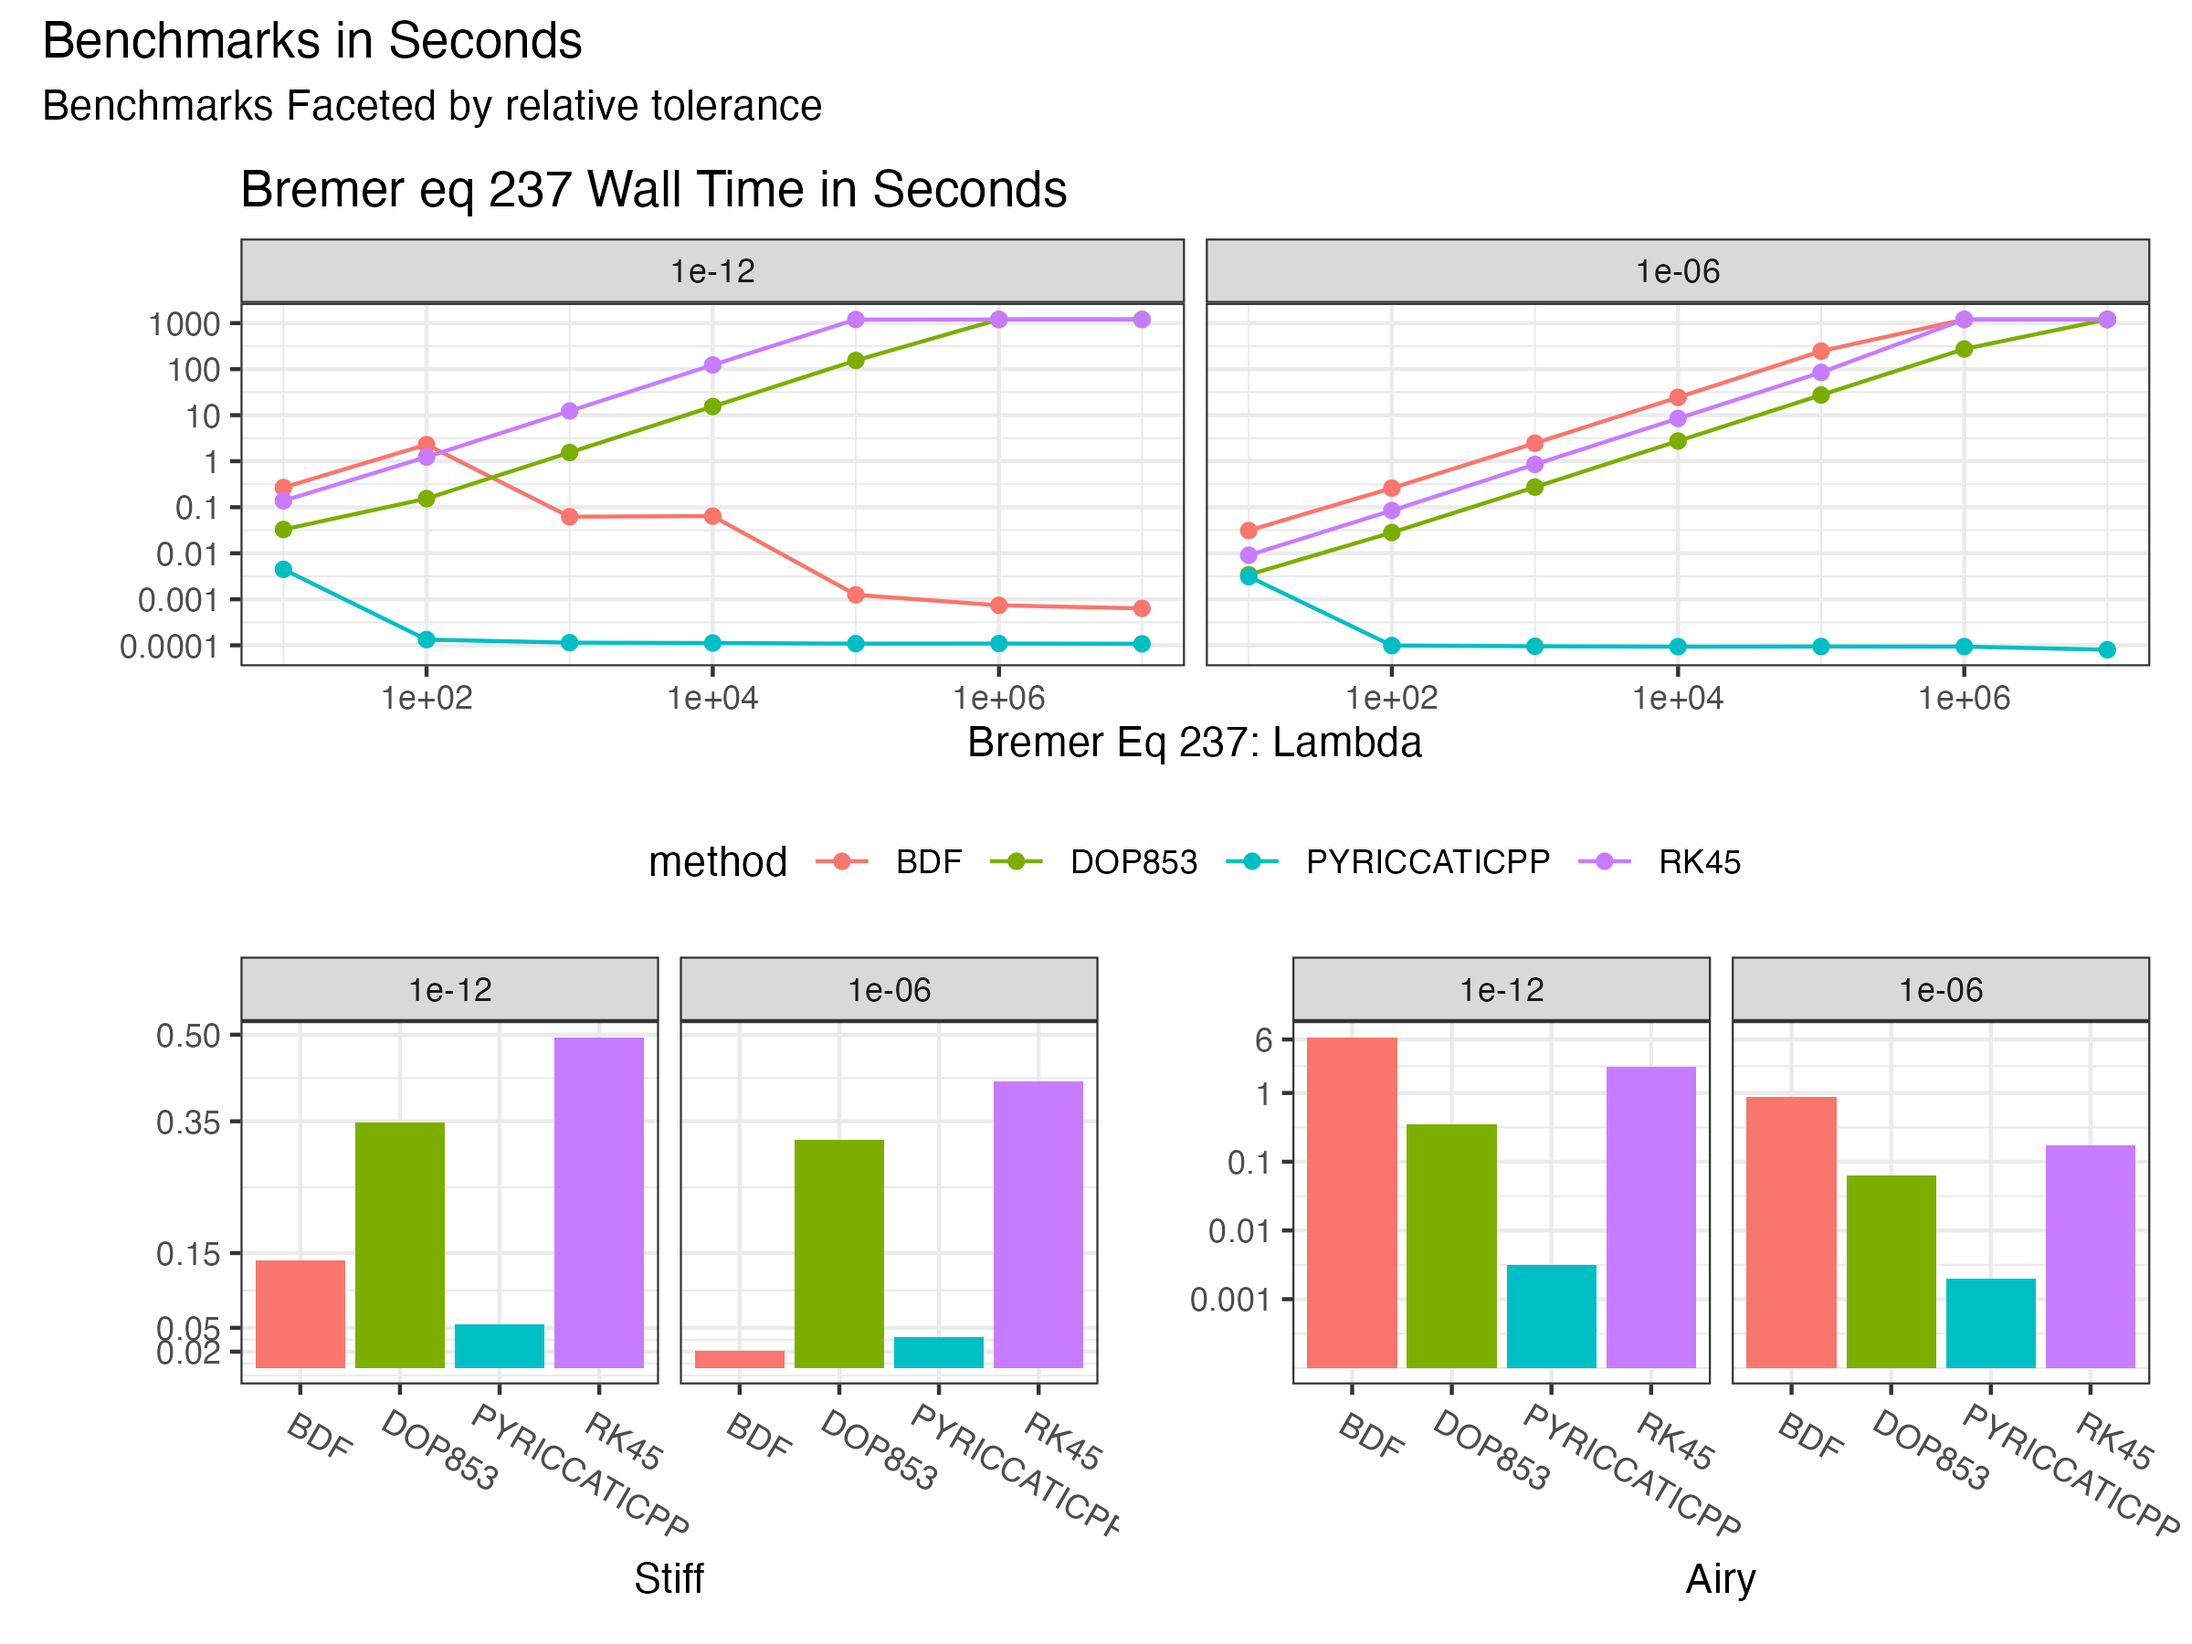
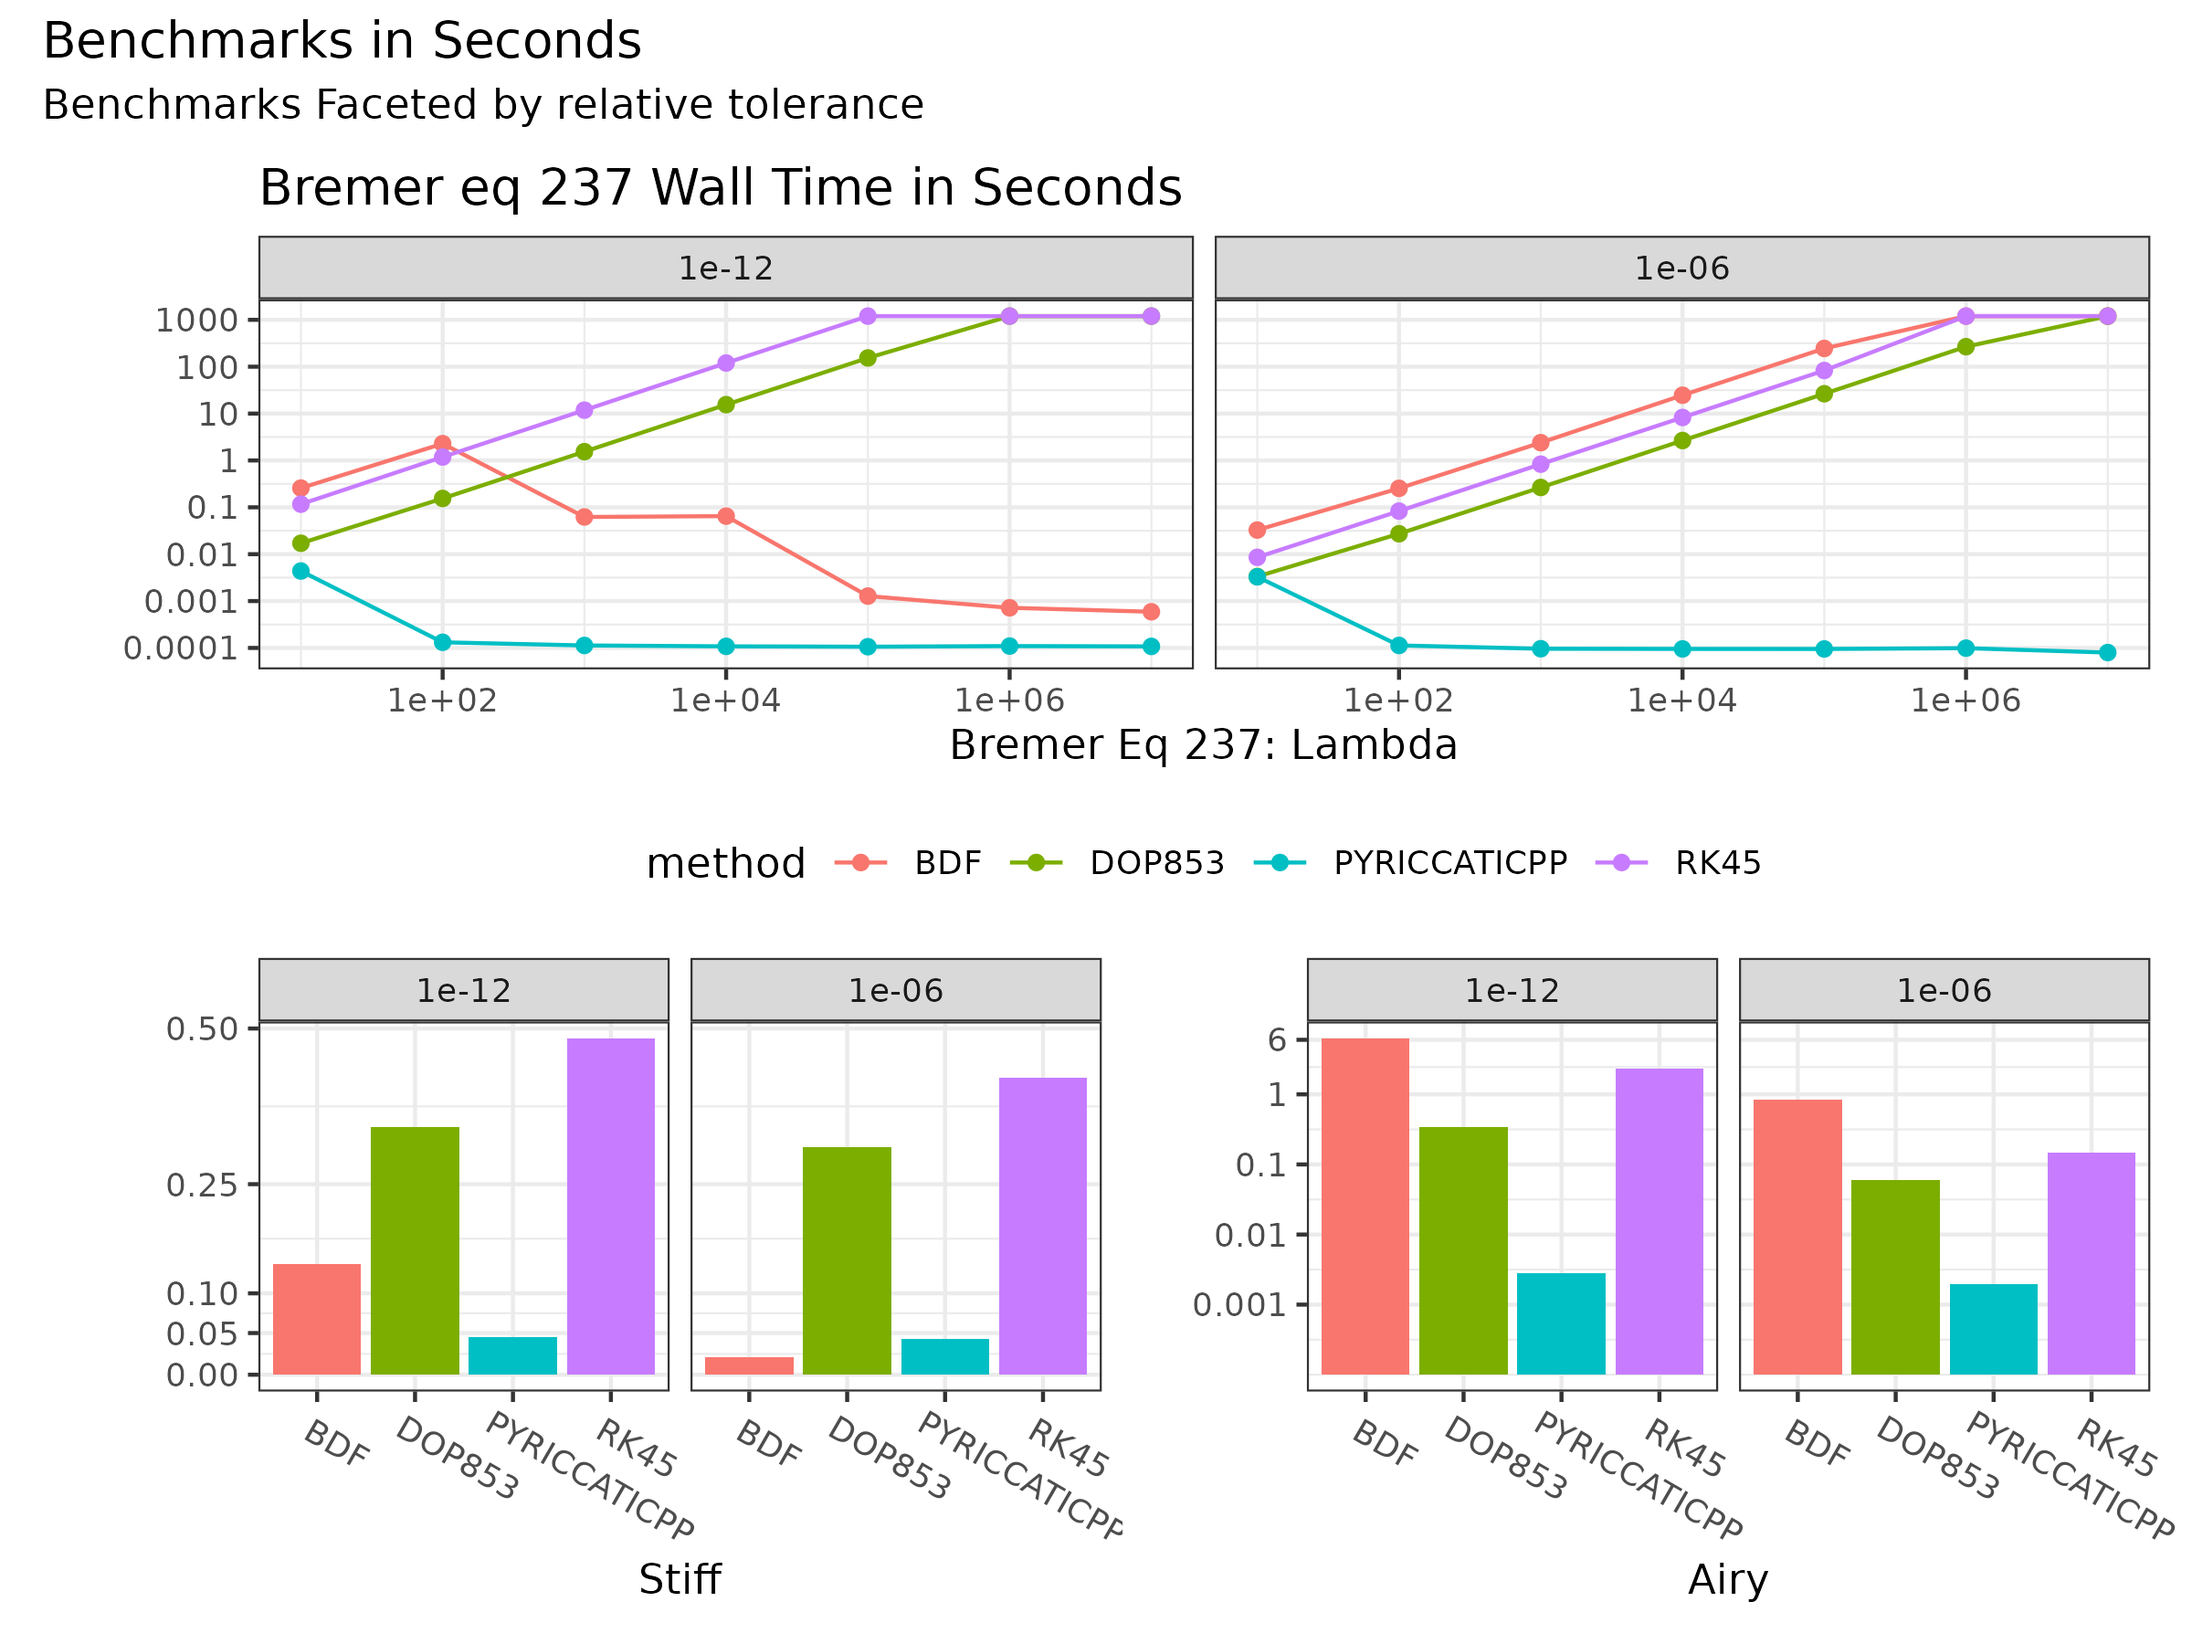
update plots

diff --git a/include/riccati/evolve.hpp b/include/riccati/evolve.hpp
@@ -655,7 +655,7 @@ inline auto evolve(SolverInfo &info, Scalar xi, Scalar xf, YScalar yi,
     }
     if constexpr (is_complex_v<omega_scalar_t>) {
       use_osc_step = true;
-      if (std::abs(wnext.imag()) > std::abs(wnext.real()) ) {
+      if (std::abs(wnext.imag()) > std::abs(wnext.real())) {
         use_osc_step = false;
       }
     }

diff --git a/benchmarks/readme.md b/benchmarks/readme.md
@@ -31,7 +31,8 @@ Rscript ./benchmarks/plot_schrodinger.R
 We consider three ODE problems for direct time-domain integration with `solve_ivp` or `pyriccaticpp`:
 
 1. **Bremer Eq. 237**
-  Taken from Bremer (2018), Eq. (237) for $x \in [-1,\,1]$.
+
+Taken from Bremer (2018), Eq. (237) for $x \in [-1,\,1]$.
 
 ```math
        y''(x) + \lambda^2\bigl[1 - x^2 \cos(3x)\bigr]\,y(x) \;=\; 0,
@@ -44,16 +45,18 @@ The initial conditions are chosen as
      \quad
      y'(-1) = \lambda,
 ```
-   so that the problem depends strongly on $\lambda$. As $\lambda$ grows, the equation becomes increasingly oscillatory (high-frequency), which can be challenging for general-purpose ODE solvers.
+
+so that the problem depends strongly on $\lambda$. As $\lambda$ grows, the equation becomes increasingly oscillatory (high-frequency), which can be challenging for general-purpose ODE solvers.
 
 2. **Airy Equation**
+
    The classical Airy equation can be written as the following.
 
 ```math
        y''(x) - x \, y(x) \;=\; 0,
 ```
 
-   for $x \in [0,\,100]$. The Airy functions $\mathrm{Ai}$ and $\mathrm{Bi}$ form the fundamental solutions; however, here we pose initial conditions in terms of these functions at $x = 0$ and integrate out to $x = 100$. Numerically, one can write this as
+for $x \in [0,\,100]$. The Airy functions $\mathrm{Ai}$ and $\mathrm{Bi}$ form the fundamental solutions; however, here we pose initial conditions in terms of these functions at $x = 0$ and integrate out to $x = 100$. Numerically, one can write this as
 
 ```math
        y'(x) = \begin{bmatrix} y_1'(x) \\ y_2'(x) \end{bmatrix}
@@ -64,7 +67,8 @@ The initial conditions are chosen as
 ```
 
 3. **Stiff Problem**
-   We label this “Stiff” because it includes large and rapidly changing coefficients. The following equation is integrated on $[0,\,200]$.
+
+We label this “Stiff” because it includes large and rapidly changing coefficients. The following equation is integrated on $[0,\,200]$.
 
 ```math
        y''(t) \;+\; (t + 21)\,y'(t) \;+\; 21\,t\,y(t) \;=\; 0,
@@ -102,16 +106,16 @@ Below is a representative plot (`ivp_bench.png`) of the average runtime (in seco
 
 | lambda|      BDF|      DOP853|        RK45|
 |------:|--------:|-----------:|-----------:|
-|  1e+01|    59.93|        **7.34**|       30.82|
-|  1e+02| 17210.72|     **1157.02**|     9266.64|
-|  1e+03|   **544.62**|    13526.04|   107989.51|
-|  1e+04|   **571.25**|   137184.64|  1098741.66|
-|  1e+05|    **11.49**|  1418527.56| 11034312.32|
-|  1e+06|     **6.76**| 10986166.85| 10986166.85|
-|  1e+07|     **5.87**| 11123022.23| 11123022.23|
+|  1e+01|    58.81|        **3.91**|       26.66|
+|  1e+02| 17299.58|     **1172.55**|     8977.71|
+|  1e+03|   **551.49**|    13632.90|   104830.64|
+|  1e+04|   **600.00**|   143353.08|  1108936.18|
+|  1e+05|    **12.04**|  1447427.56| 11306510.13|
+|  1e+06|     **6.56**| 10962325.93| 10962325.93|
+|  1e+07|     **5.49**| 11138993.87| 11138993.87|
 
 Each value can be interpreted as "In the Bremer Eq 237 benchmark, pyriccaticpp is `x` times faster than {method}."
-
+The bold numbers are the benchmarks that had the minimum time difference between pyriccaticpp for each value of lambda.
 
 - **Airy**:
   The Airy benchmark is integrated out to a relatively large domain $[0,100]$. The specialized approach in `pyriccaticpp` is, in the most competitive case when the relative error is `1e-6`, 37 times faster than it's closest competitor `DOP853`.
@@ -119,11 +123,9 @@ Each value can be interpreted as "In the Bremer Eq 237 benchmark, pyriccaticpp i
 - **Stiff**:
   As the name suggests, the presence of a rapidly varying coefficient makes this ODE a good test of stiff integrators. While `BDF` is able to compete with `pyriccaticpp` for a relative tolerance of `1e-6`, when asking for a relative tolerance of `1e-12` the graph shows that `pyriccaticpp` is 3 orders of magnitude faster than `BDF`.
 
-
 [Talk about solve_ivp benchmark results here]
 
 ![ivp_bench](/benchmarks/plots/ivp_bench.png)
-
 
 ## Relative Error Results
 
@@ -153,6 +155,7 @@ with some mass parameter $m$ (here $m=0.5$), seeking the bound-state energies fo
 ```
 
 2. For each guess $E$ of the energy, we integrate from a left boundary to the midpoint and from a right boundary to the midpoint.
+
 3. We then minimize the mismatch in derivatives at the midpoint to find an accurate bound-state energy.
 
 We compare the same four solvers `BDF`, `DOP853`, `RK45`, and `pyriccaticpp`. But in this scenario each integration is part of a root-finding (optimization) loop.
@@ -183,9 +186,7 @@ Each value can be interpreted as "In the Schrodinger benchmark, pyriccaticpp is 
 
 The figure below (`schrodinger_err.png`) shows the relative error in the computed energy level compared to [1](http://doi.org/10.1098/rspa.1978.0086). All methods are capable of producing accurate energy eigenvalues given a tight enough tolerance.
 
-
 ![sch_bench_err](/benchmarks/plots/schrodinger_err.png)
-
 
 ## Summary
 
